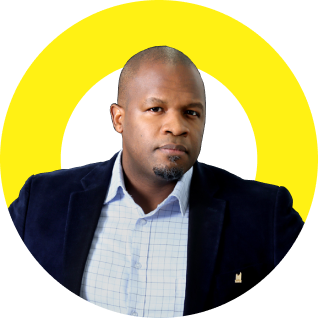
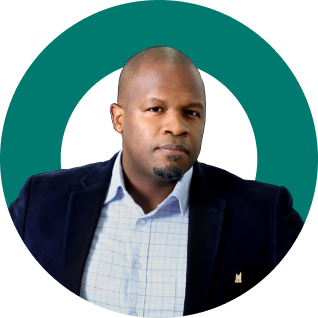
Emplementing youtube video iframe

Changed region(s): [[0.0, 0.0, 1.0, 0.7075]]

diff --git a/src/app/case-studies/case-study1/case-study1.component.html b/src/app/case-studies/case-study1/case-study1.component.html
@@ -150,10 +150,20 @@
                 <h2 class="block-title">Coding the website’s user interface</h2>
             </header>
             
-            <div appFadeInSection>
+            <div appFadeInSection class="mb-20">
                 <p class="block-p mb-0">During the development process, I create a custom WordPress theme with the most up-to-date UI technologies, making the code light, fast, and responsive, ensuring a seamless experience across mobile, table, and desktop. </p>
             </div>
         </div>
+
+
+        <div class="iframe-container">
+            <!-- <iframe width="560" height="315" src="https://www.youtube.com/embed/DgWOmUw_1-w" title="YouTube video player" frameborder="0" allow="accelerometer; autoplay; clipboard-write; encrypted-media; gyroscope; picture-in-picture; web-share" allowfullscreen></iframe> -->
+            <iframe src="https://www.youtube.com/embed/DgWOmUw_1-w" title="YouTube video player" frameborder="0" allow="accelerometer; autoplay; clipboard-write; encrypted-media; gyroscope; picture-in-picture; web-share" allowfullscreen></iframe>
+        </div>
+
+
+
+
 
         <!-- https://www.youtube.com/watch?v=DgWOmUw_1-w -->
         <!-- <youtube-player videoId="v=DgWOmUw_1-w"></youtube-player> -->
@@ -168,7 +178,7 @@
     </section>
     
 
-    <section class="bg-accent rounded-5 section-spacing-padd-y-top section-spacing-padd-y-bottom section-spacing-marg-y-bottom section-spacing-marg-y-top">
+    <section class="box-accent section-spacing-marg-y-bottom section-spacing-marg-y-top">
         <div class="small-centered-block text-center">
             <img class="img-fluid image-accent" src="./../../../assets/img/july2023/Eric Njanga - v2.png" alt="">
             <div appFadeInSection>

diff --git a/src/assets/styles/aesthetics/components/_bg-accent.scss b/src/assets/styles/aesthetics/components/_bg-accent.scss
@@ -3,10 +3,32 @@
 @layer bg-accent {
     .bg-accent {
         background-color: var(--enjanga-clr-box-accent-bg);
+
+        .accent-title {
+            color: var(--enjanga-clr-box-accent-title);
+        }
+        .accent-paragraph {
+            color: var(--enjanga-clr-box-accent-paragraph);
+        }
     }
-    .bg-accent {
+    .box-accent {
         .image-accent {
+            margin-bottom: 15px;
             width: var(--enjanga-box-accent-image-width);
+        }
+        .accent-title {
+            margin-bottom: 15px;
+
+            @media (min-width: 576px) {
+                margin-bottom: 20px;
+            }
+        }
+        footer {
+            margin-top: 20px;
+
+            @media (min-width: 576px) {
+                margin-top: 25px;
+            }
         }
 
     
@@ -18,12 +40,5 @@
         @container (min-width: 541px) and (max-width: 720px) {
             --enjanga-box-accent-content-width: 40ch;
         }
-    }
-
-    .accent-title {
-        color: var(--enjanga-clr-box-accent-title);
-    }
-    .accent-paragraph {
-        color: var(--enjanga-clr-box-accent-paragraph);
     }
 }

diff --git a/src/app/app.module.ts b/src/app/app.module.ts
@@ -20,7 +20,10 @@ import { AboutMentorsComponent } from './pages/about-mentors/about-mentors.compo
 import { AboutTestimonialsComponent } from './pages/about-testimonials/about-testimonials.component';
 import { TypescaleComponent } from './pages-static/typescale/typescale.component';
 import { CaseStudiesModule } from './case-studies/case-studies.module';
-import { YouTubePlayerModule } from '@angular/youtube-player';
+// import { NgYoutubeEmbedModule } from 'ng-youtube-embed';
+
+// import { NgxYoutubePlayerModule } from 'ngx-youtube-player';
+
 
 
 @NgModule({
@@ -48,7 +51,7 @@ import { YouTubePlayerModule } from '@angular/youtube-player';
     SharedModule,
     ProjectsModule,
     CaseStudiesModule,
-    YouTubePlayerModule,
+    // ngYoutubeEmbed
   ],
   providers: [],
   bootstrap: [AppComponent]

diff --git a/src/app/case-studies/case-study1/case-study1.component.scss b/src/app/case-studies/case-study1/case-study1.component.scss
@@ -1,4 +1,30 @@
 
+
+
+@layer page-case-study {
+    .iframe-container {
+        position: relative;
+        width: 100%;
+        padding-bottom: 56.25%; /* 16:9 aspect ratio (9 / 16 * 100) */
+
+        // // Keep border radius consistent with overal design
+        // border-radius: 30px;
+        // overflow: hidden;
+    }
+    
+    .iframe-container iframe {
+        position: absolute;
+        top: 0;
+        left: 0;
+        width: 100%;
+        height: 100%;
+    }
+}
+  
+
+
+
+
 @layer page-case-study {
     @layer img-stage {
         .img-stage1 {

diff --git a/src/assets/styles/aesthetics/components/_buttons.scss b/src/assets/styles/aesthetics/components/_buttons.scss
@@ -28,10 +28,16 @@
     .btn-primary {
         color: var(--enjanga-clr-btn-primary);
         background-color: var(--enjanga-clr-btn-primary-bg);
+        &:hover {
+            background-color: var(--enjanga-clr-btn-primary-bg-hover);
+        }
     }
     .btn-secondary {
         color: var(--enjanga-clr-btn-secondary);
         background-color: var(--enjanga-clr-btn-secondary-bg);
+        &:hover {
+            background-color: var(--enjanga-clr-btn-secondary-bg-hover);
+        }
 
         svg path {
             fill: var(--enjanga-clr-nav-svg);

diff --git a/src/app/pages/home/home.component.html b/src/app/pages/home/home.component.html
@@ -54,7 +54,7 @@
     </section>
 
 
-    <section class="bg-accent rounded-5 text-center section-spacing-padd-y-top section-spacing-padd-y-bottom section-spacing-marg-y-bottom">
+    <section class="box-accent bg-accent text-center section-spacing-padd-y-top section-spacing-padd-y-bottom section-spacing-marg-y-bottom">
         <div class="small-centered-block">
             <img class="img-fluid image-accent" src="./../../../assets/img/july2023/Eric Njanga - v2.png" alt="">
             <div appFadeInSection>

diff --git a/src/assets/styles/base/_variables.scss b/src/assets/styles/base/_variables.scss
@@ -38,10 +38,12 @@
         --enjanga-clr-btn-primary: #141F1F;
         --enjanga-clr-btn-primary-icon: #203e3e;
         --enjanga-clr-btn-primary-bg: #FFF114;
+        --enjanga-clr-btn-primary-bg-hover: #BAB01B;
 
         --enjanga-clr-btn-secondary: #fff;
         --enjanga-clr-btn-secondary-icon: #BAE3DF;
         --enjanga-clr-btn-secondary-bg: #141F1F;
+        --enjanga-clr-btn-secondary-bg-hover: #304C4A;
 
         // Case studies
         --enjanga-clr-case-study-pre-title: #AA4D6A;

diff --git a/src/assets/styles/layouts/components/_small-centered-block.scss b/src/assets/styles/layouts/components/_small-centered-block.scss
@@ -6,12 +6,11 @@
         max-width: var(--enjanga-box-accent-content-width);
 
         footer {
-            // display: flex;
             gap: 10px;
             justify-content: center;
 
             @media (max-width: 767px) {
-                flex-direction: column;
+                flex-direction: column-reverse;
             }
         }
     }

diff --git a/src/index.html b/src/index.html
@@ -17,6 +17,8 @@
 
 <body> <!-- class="mat-typography" -->
   <app-root></app-root>
+
+  <script src="https://cdn.jsdelivr.net/npm/ng-youtube-embed@1.7.16/build/ng-youtube-embed.min.js"></script>
 </body>
 
 </html>

diff --git a/src/assets/styles/aesthetics/framework-overrides/_bs-utilities.scss b/src/assets/styles/aesthetics/framework-overrides/_bs-utilities.scss
@@ -23,6 +23,9 @@
     .mb-10 {
         margin-bottom: 10px!important;
     }
+    .mb-20 {
+        margin-bottom: 20px!important;
+    }
     .mb-30 {
         margin-bottom: 30px!important;
     }
